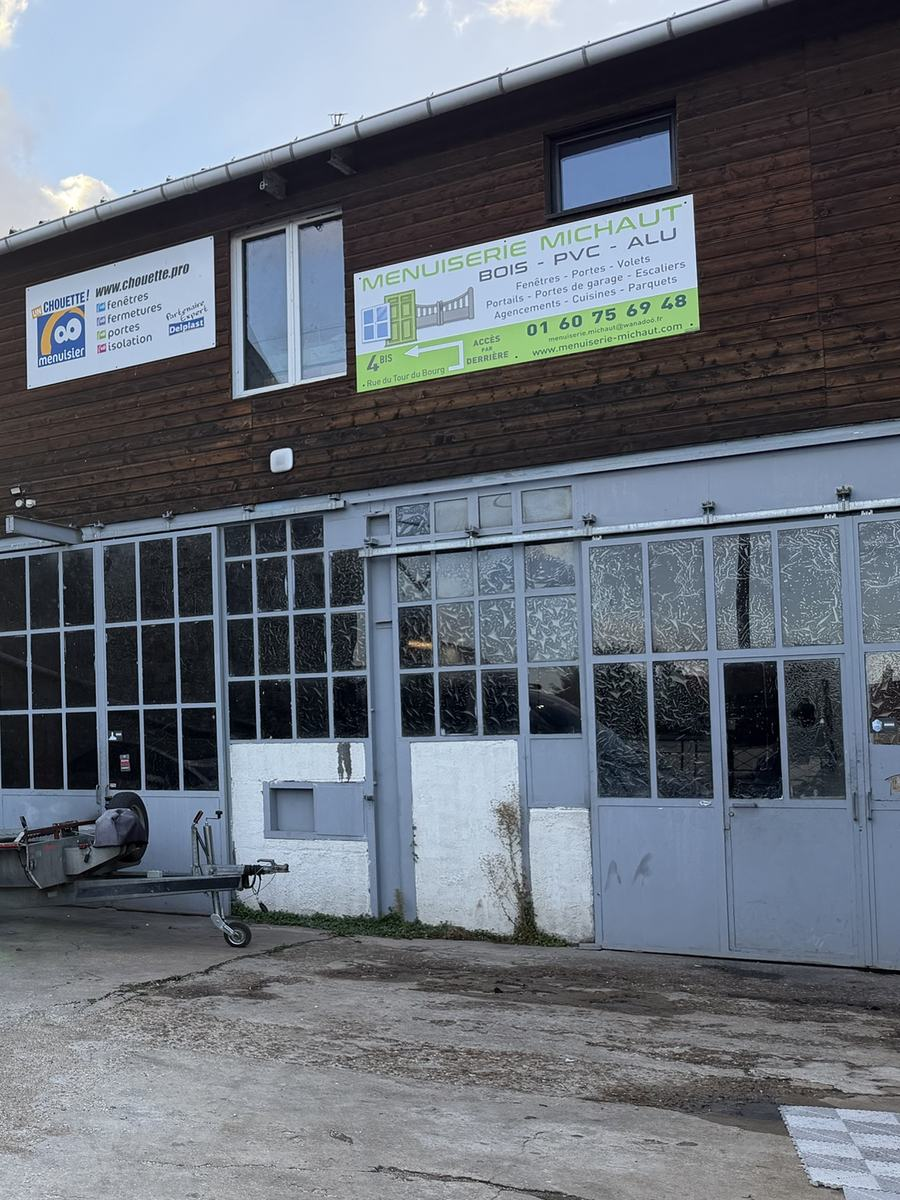
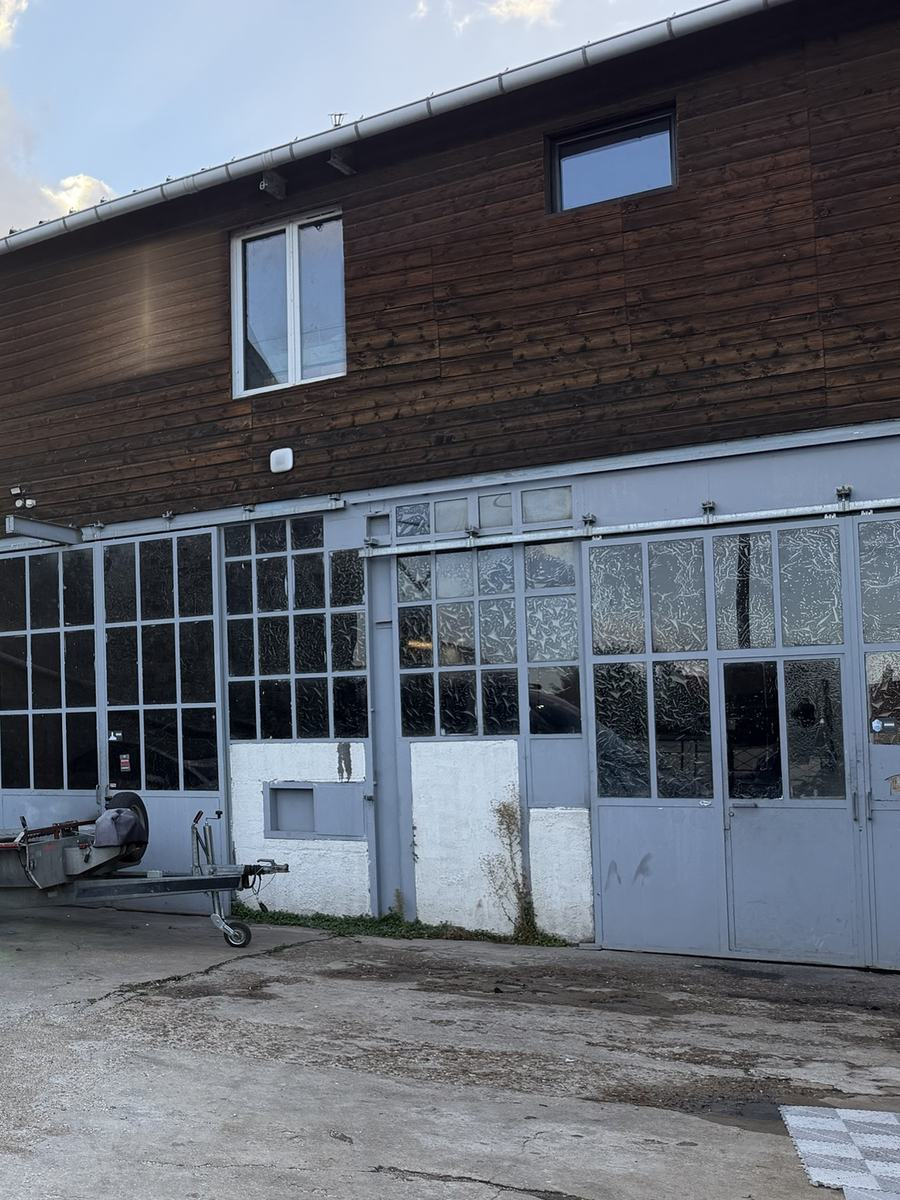
Fiche voiture plus grande, photo de l'extérieur sans les pubs, petites corrections
- Fiche d'une voiture plus grande sur ordinateur
- Photo de l'entrée du garage : panneaux publicitaires du voisin retirés
- Accueil tablette moins haut

Claude-Session: https://claude.ai/code/session_01Lu5jPQG47WPv9UUshcpwUm

Changed region(s): [[0.3733, 0.1542, 0.7778, 0.3392], [0.0311, 0.185, 0.2489, 0.3392]]

diff --git a/index.html b/index.html
@@ -600,11 +600,11 @@ a:hover .garr{transform:translate(2px,-2px)}
 
 /* ===== Fiche ===== */
 html.fiche-on{overflow:hidden}
-.fwrap{position:fixed;inset:0;z-index:200;display:flex;align-items:center;justify-content:center;padding:28px}
+.fwrap{position:fixed;inset:0;z-index:200;display:flex;align-items:center;justify-content:center;padding:clamp(14px,2.2vh,28px) clamp(14px,2vw,32px)}
 .fwrap[hidden]{display:none}
 .fbg{position:absolute;inset:0;background:rgba(18,10,16,.78);opacity:0;transition:opacity .6s ease}
 .fwrap.on .fbg{opacity:1}
-.fiche{position:relative;width:min(1180px,100%);max-height:100%;display:grid;grid-template-columns:minmax(0,1.45fr) minmax(0,1fr);align-items:start;border-radius:14px;overflow:hidden;background:linear-gradient(160deg,var(--panel2),var(--panel) 55%,var(--ink));border:1px solid var(--line);box-shadow:0 40px 120px rgba(0,0,0,.55),0 0 0 1px rgba(232,195,115,.06) inset;opacity:0;transform:translateY(18px) scale(.985);transition:opacity .6s var(--ease),transform .7s var(--ease)}
+.fiche{position:relative;width:min(1600px,100%);max-height:100%;display:grid;grid-template-columns:minmax(0,1.45fr) minmax(0,1fr);align-items:start;border-radius:14px;overflow:hidden;background:linear-gradient(160deg,var(--panel2),var(--panel) 55%,var(--ink));border:1px solid var(--line);box-shadow:0 40px 120px rgba(0,0,0,.55),0 0 0 1px rgba(232,195,115,.06) inset;opacity:0;transform:translateY(18px) scale(.985);transition:opacity .6s var(--ease),transform .7s var(--ease)}
 .fwrap.on .fiche{opacity:1;transform:none}
 .fiche:focus{outline:none}
 .fiche::before{content:"";position:absolute;left:0;right:0;top:0;height:3px;z-index:4;background:linear-gradient(90deg,var(--gold),var(--mauve-soft),transparent)}
@@ -613,7 +613,7 @@ html.fiche-on{overflow:hidden}
 
 /* galerie de la fiche */
 .fgal{position:relative;display:flex;flex-direction:column;min-height:0;background:#150D13;border-right:1px solid var(--line)}
-.fmain{position:relative;flex:none;aspect-ratio:4/3;max-height:calc(100vh - 160px);overflow:hidden;cursor:zoom-in}
+.fmain{position:relative;flex:none;aspect-ratio:4/3;max-height:calc(100vh - 140px);overflow:hidden;cursor:zoom-in}
 .fmain img{position:absolute;inset:0;width:100%;height:100%;transition:opacity .45s ease,transform 1.2s var(--ease)}
 /* photo entière (rien de coupé), sur un fond flou de la même photo */
 .fmain .fph{object-fit:contain;z-index:1}
@@ -773,7 +773,7 @@ html.fiche-on{overflow:hidden}
 }
 /* tablette / petit écran (761-1100 px) : nom + boutons au milieu, horaires/RER + réseaux en bas */
 @media (min-width:761px) and (max-width:1100px){
-  .hero{align-items:stretch}
+  .hero{align-items:stretch;min-height:max(560px,min(calc(100svh - 58px),96vw))}
   .hero-in{display:grid;grid-template-rows:1fr auto auto 1fr auto auto;gap:0;padding-block:clamp(16px,2.5vh,32px) clamp(26px,4vh,44px)}
   .hlogo{grid-row:2}
   .hero .ctas{grid-row:3;margin-top:clamp(26px,4.4vh,50px)}

diff --git a/voitures/citroen-c4-picasso/index.html b/voitures/citroen-c4-picasso/index.html
@@ -603,11 +603,11 @@ a:hover .garr{transform:translate(2px,-2px)}
 
 /* ===== Fiche ===== */
 html.fiche-on{overflow:hidden}
-.fwrap{position:fixed;inset:0;z-index:200;display:flex;align-items:center;justify-content:center;padding:28px}
+.fwrap{position:fixed;inset:0;z-index:200;display:flex;align-items:center;justify-content:center;padding:clamp(14px,2.2vh,28px) clamp(14px,2vw,32px)}
 .fwrap[hidden]{display:none}
 .fbg{position:absolute;inset:0;background:rgba(18,10,16,.78);opacity:0;transition:opacity .6s ease}
 .fwrap.on .fbg{opacity:1}
-.fiche{position:relative;width:min(1180px,100%);max-height:100%;display:grid;grid-template-columns:minmax(0,1.45fr) minmax(0,1fr);align-items:start;border-radius:14px;overflow:hidden;background:linear-gradient(160deg,var(--panel2),var(--panel) 55%,var(--ink));border:1px solid var(--line);box-shadow:0 40px 120px rgba(0,0,0,.55),0 0 0 1px rgba(232,195,115,.06) inset;opacity:0;transform:translateY(18px) scale(.985);transition:opacity .6s var(--ease),transform .7s var(--ease)}
+.fiche{position:relative;width:min(1600px,100%);max-height:100%;display:grid;grid-template-columns:minmax(0,1.45fr) minmax(0,1fr);align-items:start;border-radius:14px;overflow:hidden;background:linear-gradient(160deg,var(--panel2),var(--panel) 55%,var(--ink));border:1px solid var(--line);box-shadow:0 40px 120px rgba(0,0,0,.55),0 0 0 1px rgba(232,195,115,.06) inset;opacity:0;transform:translateY(18px) scale(.985);transition:opacity .6s var(--ease),transform .7s var(--ease)}
 .fwrap.on .fiche{opacity:1;transform:none}
 .fiche:focus{outline:none}
 .fiche::before{content:"";position:absolute;left:0;right:0;top:0;height:3px;z-index:4;background:linear-gradient(90deg,var(--gold),var(--mauve-soft),transparent)}
@@ -616,7 +616,7 @@ html.fiche-on{overflow:hidden}
 
 /* galerie de la fiche */
 .fgal{position:relative;display:flex;flex-direction:column;min-height:0;background:#150D13;border-right:1px solid var(--line)}
-.fmain{position:relative;flex:none;aspect-ratio:4/3;max-height:calc(100vh - 160px);overflow:hidden;cursor:zoom-in}
+.fmain{position:relative;flex:none;aspect-ratio:4/3;max-height:calc(100vh - 140px);overflow:hidden;cursor:zoom-in}
 .fmain img{position:absolute;inset:0;width:100%;height:100%;transition:opacity .45s ease,transform 1.2s var(--ease)}
 /* photo entière (rien de coupé), sur un fond flou de la même photo */
 .fmain .fph{object-fit:contain;z-index:1}
@@ -776,7 +776,7 @@ html.fiche-on{overflow:hidden}
 }
 /* tablette / petit écran (761-1100 px) : nom + boutons au milieu, horaires/RER + réseaux en bas */
 @media (min-width:761px) and (max-width:1100px){
-  .hero{align-items:stretch}
+  .hero{align-items:stretch;min-height:max(560px,min(calc(100svh - 58px),96vw))}
   .hero-in{display:grid;grid-template-rows:1fr auto auto 1fr auto auto;gap:0;padding-block:clamp(16px,2.5vh,32px) clamp(26px,4vh,44px)}
   .hlogo{grid-row:2}
   .hero .ctas{grid-row:3;margin-top:clamp(26px,4.4vh,50px)}

diff --git a/voitures/dacia-logan/index.html b/voitures/dacia-logan/index.html
@@ -603,11 +603,11 @@ a:hover .garr{transform:translate(2px,-2px)}
 
 /* ===== Fiche ===== */
 html.fiche-on{overflow:hidden}
-.fwrap{position:fixed;inset:0;z-index:200;display:flex;align-items:center;justify-content:center;padding:28px}
+.fwrap{position:fixed;inset:0;z-index:200;display:flex;align-items:center;justify-content:center;padding:clamp(14px,2.2vh,28px) clamp(14px,2vw,32px)}
 .fwrap[hidden]{display:none}
 .fbg{position:absolute;inset:0;background:rgba(18,10,16,.78);opacity:0;transition:opacity .6s ease}
 .fwrap.on .fbg{opacity:1}
-.fiche{position:relative;width:min(1180px,100%);max-height:100%;display:grid;grid-template-columns:minmax(0,1.45fr) minmax(0,1fr);align-items:start;border-radius:14px;overflow:hidden;background:linear-gradient(160deg,var(--panel2),var(--panel) 55%,var(--ink));border:1px solid var(--line);box-shadow:0 40px 120px rgba(0,0,0,.55),0 0 0 1px rgba(232,195,115,.06) inset;opacity:0;transform:translateY(18px) scale(.985);transition:opacity .6s var(--ease),transform .7s var(--ease)}
+.fiche{position:relative;width:min(1600px,100%);max-height:100%;display:grid;grid-template-columns:minmax(0,1.45fr) minmax(0,1fr);align-items:start;border-radius:14px;overflow:hidden;background:linear-gradient(160deg,var(--panel2),var(--panel) 55%,var(--ink));border:1px solid var(--line);box-shadow:0 40px 120px rgba(0,0,0,.55),0 0 0 1px rgba(232,195,115,.06) inset;opacity:0;transform:translateY(18px) scale(.985);transition:opacity .6s var(--ease),transform .7s var(--ease)}
 .fwrap.on .fiche{opacity:1;transform:none}
 .fiche:focus{outline:none}
 .fiche::before{content:"";position:absolute;left:0;right:0;top:0;height:3px;z-index:4;background:linear-gradient(90deg,var(--gold),var(--mauve-soft),transparent)}
@@ -616,7 +616,7 @@ html.fiche-on{overflow:hidden}
 
 /* galerie de la fiche */
 .fgal{position:relative;display:flex;flex-direction:column;min-height:0;background:#150D13;border-right:1px solid var(--line)}
-.fmain{position:relative;flex:none;aspect-ratio:4/3;max-height:calc(100vh - 160px);overflow:hidden;cursor:zoom-in}
+.fmain{position:relative;flex:none;aspect-ratio:4/3;max-height:calc(100vh - 140px);overflow:hidden;cursor:zoom-in}
 .fmain img{position:absolute;inset:0;width:100%;height:100%;transition:opacity .45s ease,transform 1.2s var(--ease)}
 /* photo entière (rien de coupé), sur un fond flou de la même photo */
 .fmain .fph{object-fit:contain;z-index:1}
@@ -776,7 +776,7 @@ html.fiche-on{overflow:hidden}
 }
 /* tablette / petit écran (761-1100 px) : nom + boutons au milieu, horaires/RER + réseaux en bas */
 @media (min-width:761px) and (max-width:1100px){
-  .hero{align-items:stretch}
+  .hero{align-items:stretch;min-height:max(560px,min(calc(100svh - 58px),96vw))}
   .hero-in{display:grid;grid-template-rows:1fr auto auto 1fr auto auto;gap:0;padding-block:clamp(16px,2.5vh,32px) clamp(26px,4vh,44px)}
   .hlogo{grid-row:2}
   .hero .ctas{grid-row:3;margin-top:clamp(26px,4.4vh,50px)}

diff --git a/voitures/renault-grand-modus/index.html b/voitures/renault-grand-modus/index.html
@@ -603,11 +603,11 @@ a:hover .garr{transform:translate(2px,-2px)}
 
 /* ===== Fiche ===== */
 html.fiche-on{overflow:hidden}
-.fwrap{position:fixed;inset:0;z-index:200;display:flex;align-items:center;justify-content:center;padding:28px}
+.fwrap{position:fixed;inset:0;z-index:200;display:flex;align-items:center;justify-content:center;padding:clamp(14px,2.2vh,28px) clamp(14px,2vw,32px)}
 .fwrap[hidden]{display:none}
 .fbg{position:absolute;inset:0;background:rgba(18,10,16,.78);opacity:0;transition:opacity .6s ease}
 .fwrap.on .fbg{opacity:1}
-.fiche{position:relative;width:min(1180px,100%);max-height:100%;display:grid;grid-template-columns:minmax(0,1.45fr) minmax(0,1fr);align-items:start;border-radius:14px;overflow:hidden;background:linear-gradient(160deg,var(--panel2),var(--panel) 55%,var(--ink));border:1px solid var(--line);box-shadow:0 40px 120px rgba(0,0,0,.55),0 0 0 1px rgba(232,195,115,.06) inset;opacity:0;transform:translateY(18px) scale(.985);transition:opacity .6s var(--ease),transform .7s var(--ease)}
+.fiche{position:relative;width:min(1600px,100%);max-height:100%;display:grid;grid-template-columns:minmax(0,1.45fr) minmax(0,1fr);align-items:start;border-radius:14px;overflow:hidden;background:linear-gradient(160deg,var(--panel2),var(--panel) 55%,var(--ink));border:1px solid var(--line);box-shadow:0 40px 120px rgba(0,0,0,.55),0 0 0 1px rgba(232,195,115,.06) inset;opacity:0;transform:translateY(18px) scale(.985);transition:opacity .6s var(--ease),transform .7s var(--ease)}
 .fwrap.on .fiche{opacity:1;transform:none}
 .fiche:focus{outline:none}
 .fiche::before{content:"";position:absolute;left:0;right:0;top:0;height:3px;z-index:4;background:linear-gradient(90deg,var(--gold),var(--mauve-soft),transparent)}
@@ -616,7 +616,7 @@ html.fiche-on{overflow:hidden}
 
 /* galerie de la fiche */
 .fgal{position:relative;display:flex;flex-direction:column;min-height:0;background:#150D13;border-right:1px solid var(--line)}
-.fmain{position:relative;flex:none;aspect-ratio:4/3;max-height:calc(100vh - 160px);overflow:hidden;cursor:zoom-in}
+.fmain{position:relative;flex:none;aspect-ratio:4/3;max-height:calc(100vh - 140px);overflow:hidden;cursor:zoom-in}
 .fmain img{position:absolute;inset:0;width:100%;height:100%;transition:opacity .45s ease,transform 1.2s var(--ease)}
 /* photo entière (rien de coupé), sur un fond flou de la même photo */
 .fmain .fph{object-fit:contain;z-index:1}
@@ -776,7 +776,7 @@ html.fiche-on{overflow:hidden}
 }
 /* tablette / petit écran (761-1100 px) : nom + boutons au milieu, horaires/RER + réseaux en bas */
 @media (min-width:761px) and (max-width:1100px){
-  .hero{align-items:stretch}
+  .hero{align-items:stretch;min-height:max(560px,min(calc(100svh - 58px),96vw))}
   .hero-in{display:grid;grid-template-rows:1fr auto auto 1fr auto auto;gap:0;padding-block:clamp(16px,2.5vh,32px) clamp(26px,4vh,44px)}
   .hlogo{grid-row:2}
   .hero .ctas{grid-row:3;margin-top:clamp(26px,4.4vh,50px)}
